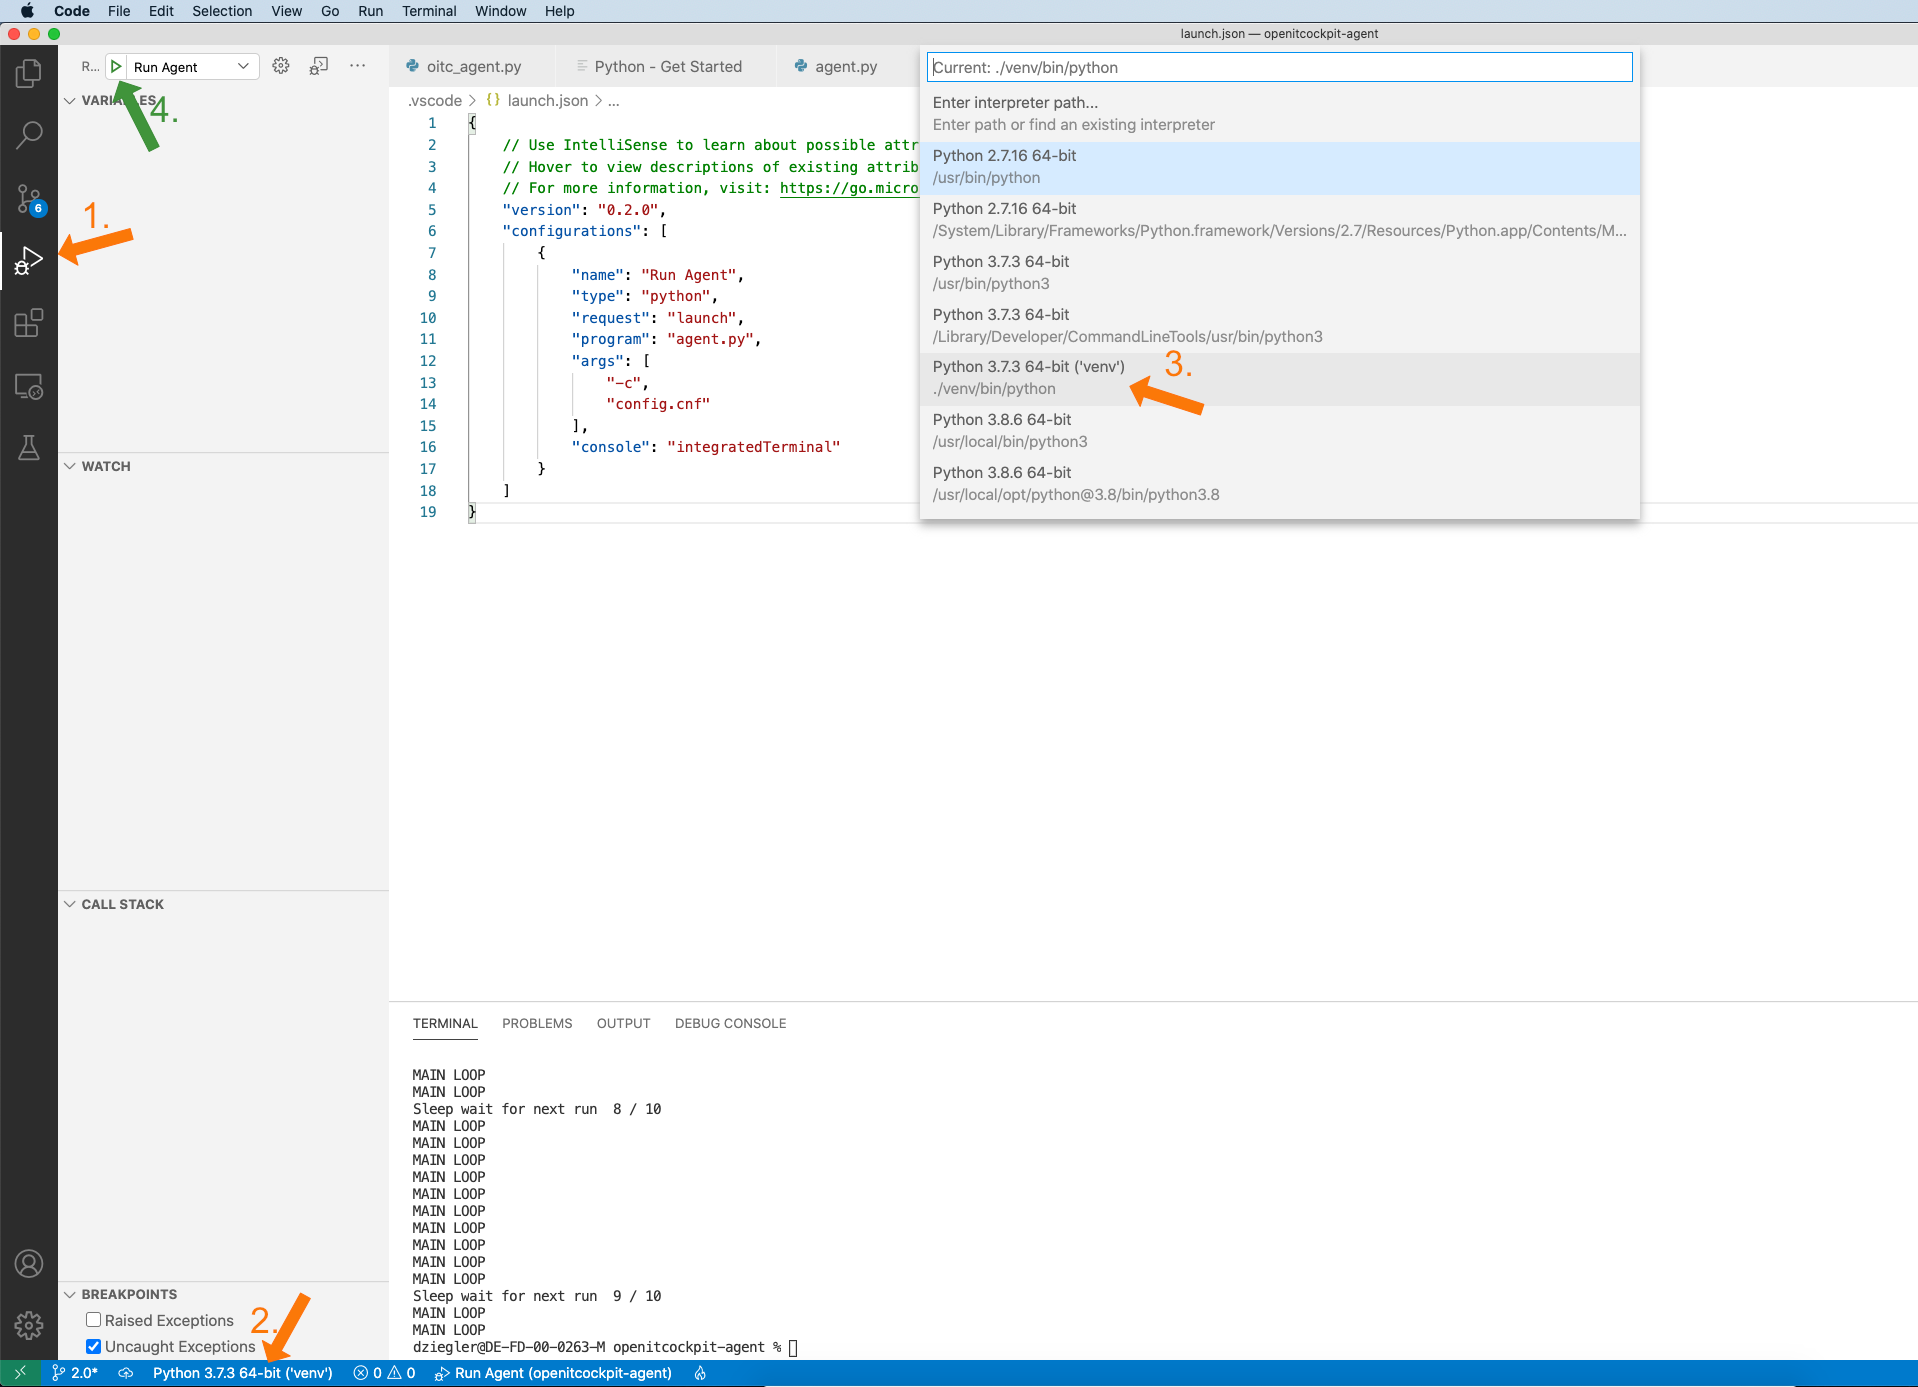
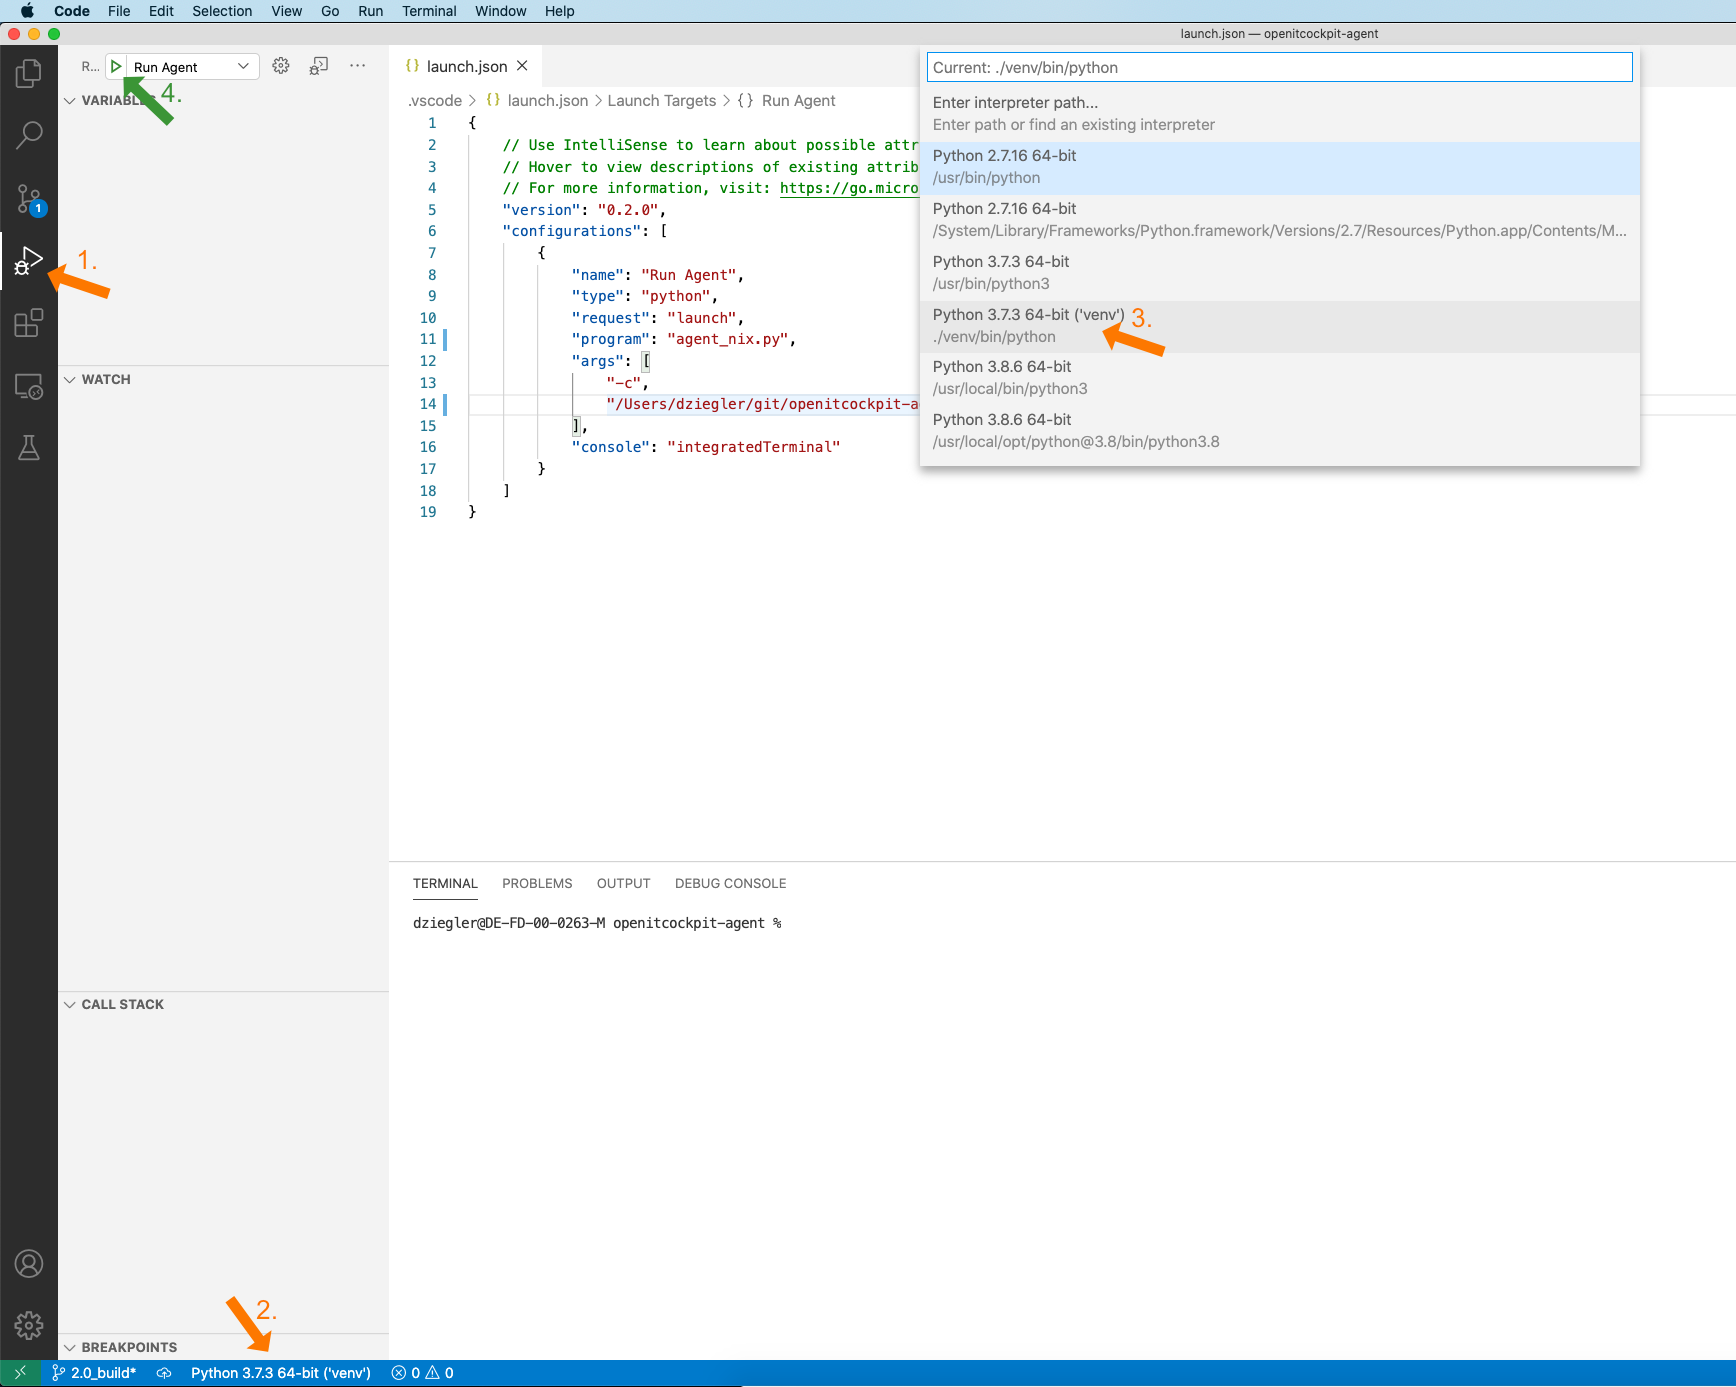
Update debugger docs for VS Code

diff --git a/README.md b/README.md
@@ -149,6 +149,10 @@ Free Download: [https://code.visualstudio.com/](https://code.visualstudio.com/)
  - [Python extension for Visual Studio Code](https://marketplace.visualstudio.com/items?itemName=ms-python.python)
 
 #### Setup Debugger
+Open up `.vscode/launch.json` and set the full path to `config.cnf`
+![VSCode launch.json](images/vscode_launch.png)
+
+Configure the debugger and run the Agent
 ![VSCode debugger python](images/vscode_python_debugger.png)
 
 ### PyCharm Community 
@@ -164,11 +168,11 @@ Free Download: [https://www.jetbrains.com/pycharm/download/](https://www.jetbrai
 
 ## Usage
 
-Default: ```python agent.py```
+Default: ```python agent_nix.py```
 
-Custom: ```python oitc_agent.py -v -i <check interval seconds> -p <port number> -a <ip address> -c <config path> --certfile <certfile path> --keyfile <keyfile path> --auth <user>:<password> --oitc-url <url> --oitc-apikey <api key> --oitc-interval <seconds>```
+Custom: ```python agent_nix.py -v -i <check interval seconds> -p <port number> -a <ip address> -c <config path> --certfile <certfile path> --keyfile <keyfile path> --auth <user>:<password> --oitc-url <url> --oitc-apikey <api key> --oitc-interval <seconds>```
 
-Windows: ```python.exe agent.py```
+Windows: ```python.exe agent_nix.py```
 
 #### Pull mode (publish data as json via a web server)
 
